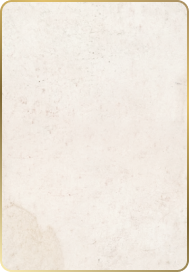
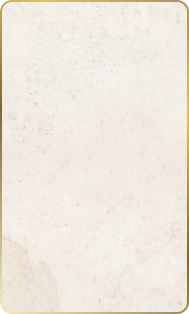
update card info

diff --git a/styles/Home.module.scss b/styles/Home.module.scss
@@ -46,7 +46,7 @@
   justify-content: center;
   margin: 0 auto;
 
-  > img {
+  >img {
     margin: 1em;
   }
 }
@@ -79,13 +79,11 @@
   font-weight: normal;
   text-align: center;
   margin: 0 auto 1em auto;
-  background: linear-gradient(
-    269.59deg,
-    rgba(156, 129, 81, 0.9) -22.4%,
-    rgba(221, 185, 91, 0.9) 10.69%,
-    rgba(109, 85, 30, 0.9) 72.76%,
-    rgba(254, 239, 177, 0.9) 107.27%
-  );
+  background: linear-gradient(269.59deg,
+      rgba(156, 129, 81, 0.9) -22.4%,
+      rgba(221, 185, 91, 0.9) 10.69%,
+      rgba(109, 85, 30, 0.9) 72.76%,
+      rgba(254, 239, 177, 0.9) 107.27%);
   background-clip: text;
   // -webkit-text-fill-color: transparent;
   display: inline-block;
@@ -290,15 +288,19 @@
       &:nth-child(1) {
         @include colorLi($green-2);
       }
+
       &:nth-child(2) {
         @include colorLi($crystal-gold);
       }
+
       &:nth-child(3) {
         @include colorLi($chinese-neon);
       }
+
       &:nth-child(4) {
         @include colorLi($deep-sea);
       }
+
       &:nth-child(5) {
         @include colorLi($crystal);
         margin-top: -1.2em;
@@ -320,6 +322,7 @@
           margin: -70px auto 0 auto;
         }
       }
+
       &:nth-child(6) {
         @include colorLi($pink);
         margin-top: -250px;
@@ -358,45 +361,59 @@
 .xin-chromatic {
   color: $xin-chromatic;
 }
+
 .crystal-gold {
   color: $crystal-gold;
 }
+
 .chinese-neon {
   color: $chinese-neon;
 }
+
 .deep-sea {
   color: $deep-sea;
 }
+
 .green-2 {
   color: $green-2;
 }
+
 .gargoyle-purple {
   color: $gargoyle-purple;
 }
+
 .chinese {
   color: $chinese;
 }
+
 .crystal {
   color: $crystal;
 }
+
 .swamp {
   color: $swamp;
 }
+
 .gargoyle {
   color: $gargoyle;
 }
+
 .xin {
   color: $xin;
 }
+
 .grey-green {
   color: $grey-green;
 }
+
 .light-gold {
   color: $light-gold;
 }
+
 .purple {
   color: $purple;
 }
+
 .teal {
   color: $teal;
 }
@@ -415,7 +432,7 @@
   text-align: left;
   text-decoration: none;
   width: 185px;
-  height: 268px;
+  height: 310px;
   text-align: center;
   vertical-align: top;
   background-image: url("../public/card.png");
@@ -427,7 +444,7 @@
     font-size: 20px;
     line-height: 17.5px;
     margin-top: 10px;
-    margin-bottom: 0px;
+    margin-bottom: 7px;
     text-transform: uppercase;
     font-weight: 900;
   }
@@ -447,6 +464,7 @@
 ul.align-right {
   text-align: right;
   list-style-type: none;
+
   li {
     &:after {
       content: "»";
@@ -458,6 +476,7 @@ ul.align-right {
 ul.align-left {
   text-align: left;
   list-style-type: "»";
+
   li {
     padding-left: 1em;
   }
@@ -481,11 +500,13 @@ ul.align-left {
 
   .team-member {
     margin: 0 2em;
+
     img {
       border-radius: 100%;
       width: 150px !important;
       height: 150px !important;
     }
+
     p {
       font-size: 14px;
       font-weight: bold;
@@ -497,8 +518,10 @@ ul.align-left {
   ul.align-right {
     text-align: left;
     list-style-type: "»";
+
     li {
       padding-left: 1em;
+
       &:after {
         content: "";
       }
@@ -595,6 +618,7 @@ ul.align-left {
 
       dt {
         font-weight: bold;
+
         &:after {
           content: ":";
         }
@@ -638,25 +662,21 @@ ul.align-left {
   justify-content: space-between;
 
   button {
-    background: linear-gradient(
-      83.39deg,
-      #a88848 6.2%,
-      #fceeb2 36.17%,
-      #ddb55b 73.65%,
-      #feefb1 137.01%
-    );
+    background: linear-gradient(83.39deg,
+        #a88848 6.2%,
+        #fceeb2 36.17%,
+        #ddb55b 73.65%,
+        #feefb1 137.01%);
     color: #7c5d1e;
     font-size: 16px;
   }
 
   h4 {
-    background: linear-gradient(
-      83.39deg,
-      #a88848 6.2%,
-      #fceeb2 36.17%,
-      #ddb55b 73.65%,
-      #feefb1 137.01%
-    );
+    background: linear-gradient(83.39deg,
+        #a88848 6.2%,
+        #fceeb2 36.17%,
+        #ddb55b 73.65%,
+        #feefb1 137.01%);
     color: #7c5d1e;
     font-size: 16px;
     font-weight: 600;
@@ -673,13 +693,11 @@ ul.align-left {
   font-weight: normal;
   text-align: center;
   margin: 0;
-  background: linear-gradient(
-    83.39deg,
-    #a88848 6.2%,
-    #fceeb2 36.17%,
-    #ddb55b 73.65%,
-    #feefb1 137.01%
-  );
+  background: linear-gradient(83.39deg,
+      #a88848 6.2%,
+      #fceeb2 36.17%,
+      #ddb55b 73.65%,
+      #feefb1 137.01%);
   -webkit-background-clip: text;
   -webkit-text-fill-color: transparent;
 }
@@ -713,13 +731,11 @@ ul.align-left {
 }
 
 .inputWapper {
-  background: linear-gradient(
-    83.39deg,
-    #a88848 6.2%,
-    #fceeb2 36.17%,
-    #ddb55b 73.65%,
-    #feefb1 137.01%
-  );
+  background: linear-gradient(83.39deg,
+      #a88848 6.2%,
+      #fceeb2 36.17%,
+      #ddb55b 73.65%,
+      #feefb1 137.01%);
   padding: 1px;
   border-radius: 4px;
 
@@ -754,13 +770,16 @@ ul.align-left {
       flex-direction: column;
     }
   }
+
   .phase-inner img {
     display: none;
   }
+
   .phase-inner {
     padding-left: 5px !important;
     padding-right: 5px !important;
   }
+
   .chosen {
     width: 100%;
   }

diff --git a/pages/index.js b/pages/index.js
@@ -9,61 +9,61 @@ const cards = [
     src: '/chromatic.png',
     title: 'Xin Chromatic',
     color: 'xin-chromatic',
-    text: 'It can change into different shapes, even human beings. It is said that it can control all the seas'
+    text: 'Masters of light and colour, you see only what they want you to see. A rainbow is a sure sign that a Xin Chromatic was flying free. '
   },
   {
     src: '/gold.png',
     title: 'Crystal Gold',
     color: 'crystal-gold',
-    text: 'Protects hidden treasures or personal wealth.'
+    text: 'Protectors of Peace are the diplomats of the Xin Dragons. Constantly communicating with the many races to maintain the fragile balance of the world.'
   },
   {
     src: '/neon.png',
     title: 'Chinese Neon',
     color: 'chinese-neon',
-    text: 'It is said that the coiling dragon can control time.'
+    text: 'The Lords of Time command great respect within the Xin Dragons. Whether time crawls or hours go by in a flash, that is the domain of the Chinese Neon. '
   },
   {
     src: '/sea.png',
     title: 'Deep Sea',
     color: 'deep-sea',
-    text: 'Lives in the seas, rivers, lakes, or underground. It can control the flow of rivers or streams.'
+    text: 'Denizens of the Deep that maintain the oceans and the seas. All life underwater defers to their rule, and the tides ebb and flow to their moods. '
   },
   {
     src: '/gargoyle-purple.png',
     title: 'Gargoyle Purple',
     color: 'gargoyle-purple',
-    text: 'Powerful and evil dragon that often makes floods.'
+    text: 'They are one with the earth, the mountains and the hills and they can mould dust and dirt to their will. When angered the earth quakes.'
   },
   {
     src: '/chinese.png',
     title: 'Chinese',
     color: 'chinese',
-    text: 'It controls the four seasons and descendants of the Yellow Emperor'
+    text: 'Friends of the Forest where they dwell they dictate the colour of the leaves cells. A flash of yellow in the jungle does not bode well. '
   },
   {
     src: '/crystal.png',
     title: 'Crystal',
     color: 'crystal',
-    text: 'It can fly through thick cloud and make rain.'
+    text: 'Nomads that scour the skies, they shape the storms and all it implies. Their breath makes rain and creates ice and when they ride lightning thunder roars through the air.'
   },
   {
     src: '/swamp.png',
     title: 'Swamp',
     color: 'swamp',
-    text: 'The green dragon represents the east and controls rain and wind.'
+    text: 'Makers of the cool currents and the billowing breeze these Dragons are rarely heard or seen. They rid the world of stagnant scenes while staying hidden in their den. '
   },
   {
     src: '/gargoyle.png',
     title: 'Gargoyle',
     color: 'gargoyle',
-    text: 'In ancient China, this dragon is often linked to catastrophes like storms and floods.'
+    text: 'The underworld is their home where they tend to the diamonds and gold. If you find yourself lost in a cave then call for a gargoyle and chances are you will be saved. '
   },
   {
     src: '/xin.png',
     title: 'Xin',
     color: 'xin',
-    text: 'Lucky Dragons, it is said that they bring luck to their holders'
+    text: 'None know the true purpose of the Xin. They wander the world bringing luck to the few that they bless. Perhaps soon the world will reveal their real roles.  '
   }
 ];
 
